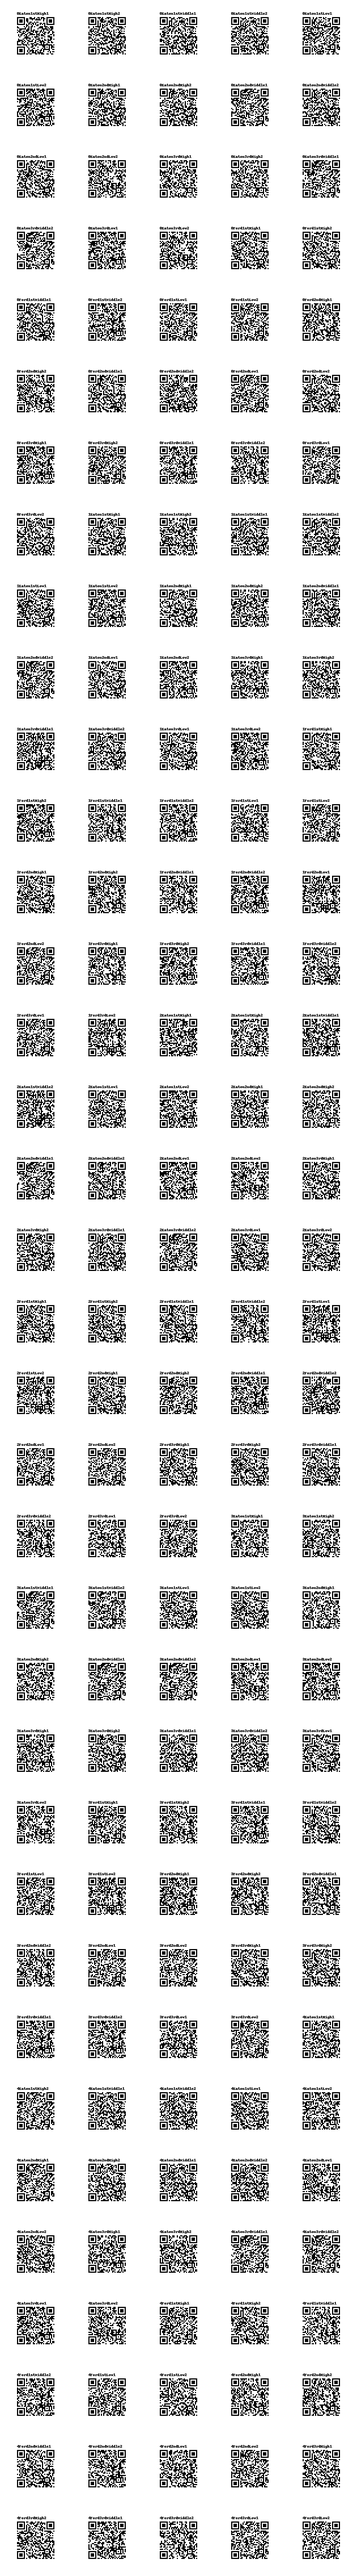
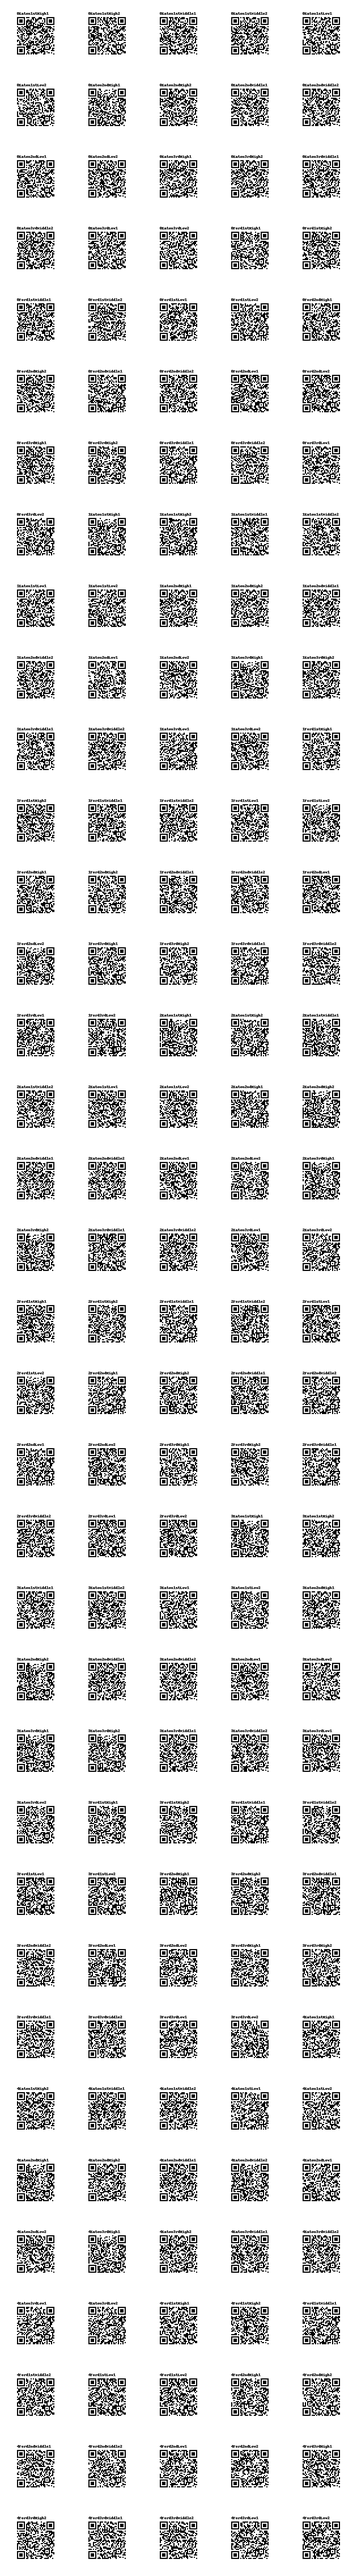
updated qr w/ domain + created template dir

diff --git a/templates/index.html b/templates/index.html
@@ -1,0 +1,10 @@
+<!DOCTYPE html>
+<html lang="en">
+<head>
+    <meta charset="UTF-8">
+    <title>Welcome to WU Rubber Ducks!</title>
+</head>
+<body>
+
+</body>
+</html>

diff --git a/templates/form.html b/templates/form.html
@@ -1,0 +1,10 @@
+<!DOCTYPE html>
+<html lang="en">
+<head>
+    <meta charset="UTF-8">
+    <title>Title</title>
+</head>
+<body>
+
+</body>
+</html>

diff --git a/create-qrs.py b/create-qrs.py
@@ -6,7 +6,7 @@ from PIL import ImageDraw
 # todo update this when we implement a domain name
 # todo set this up with proper ids and make it in a more printable format -- using PIL?
 def generate_qr_code(duck_id):
-    url = f'http://137.184.35.65:81/form?duck_id={duck_id}'  # todo update
+    url = f'http://wurubberducks.lol/form?duck_id={duck_id}'  # todo update
     qr = qrcode.QRCode(version=1, box_size=3, border=15)
     qr.add_data(url)
     qr.make(fit=True)
